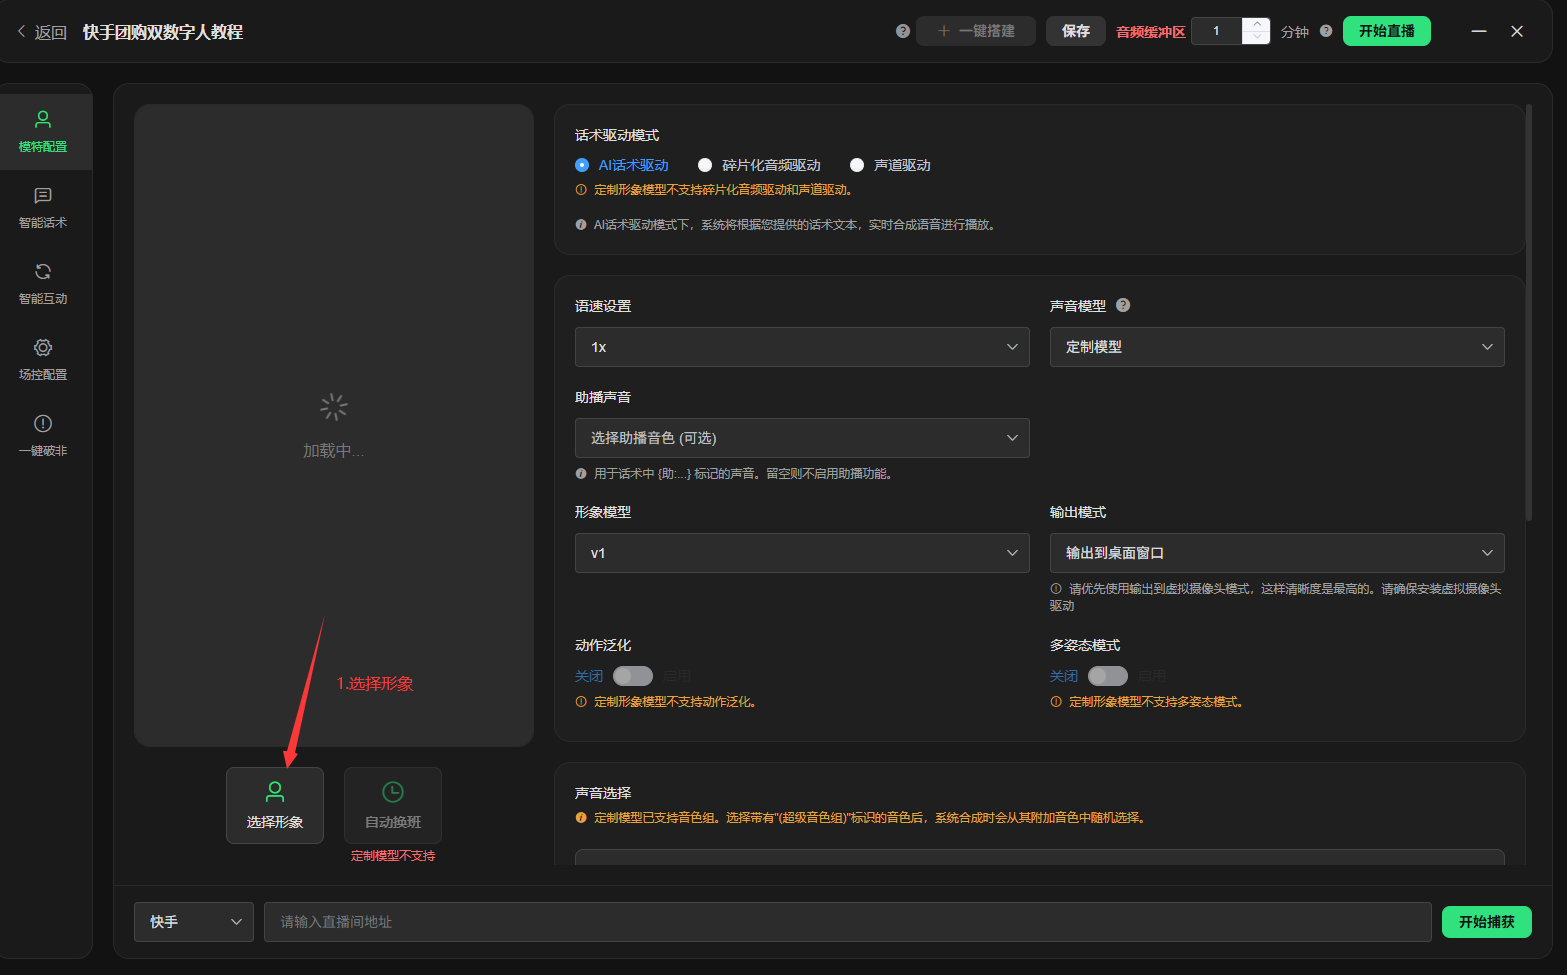
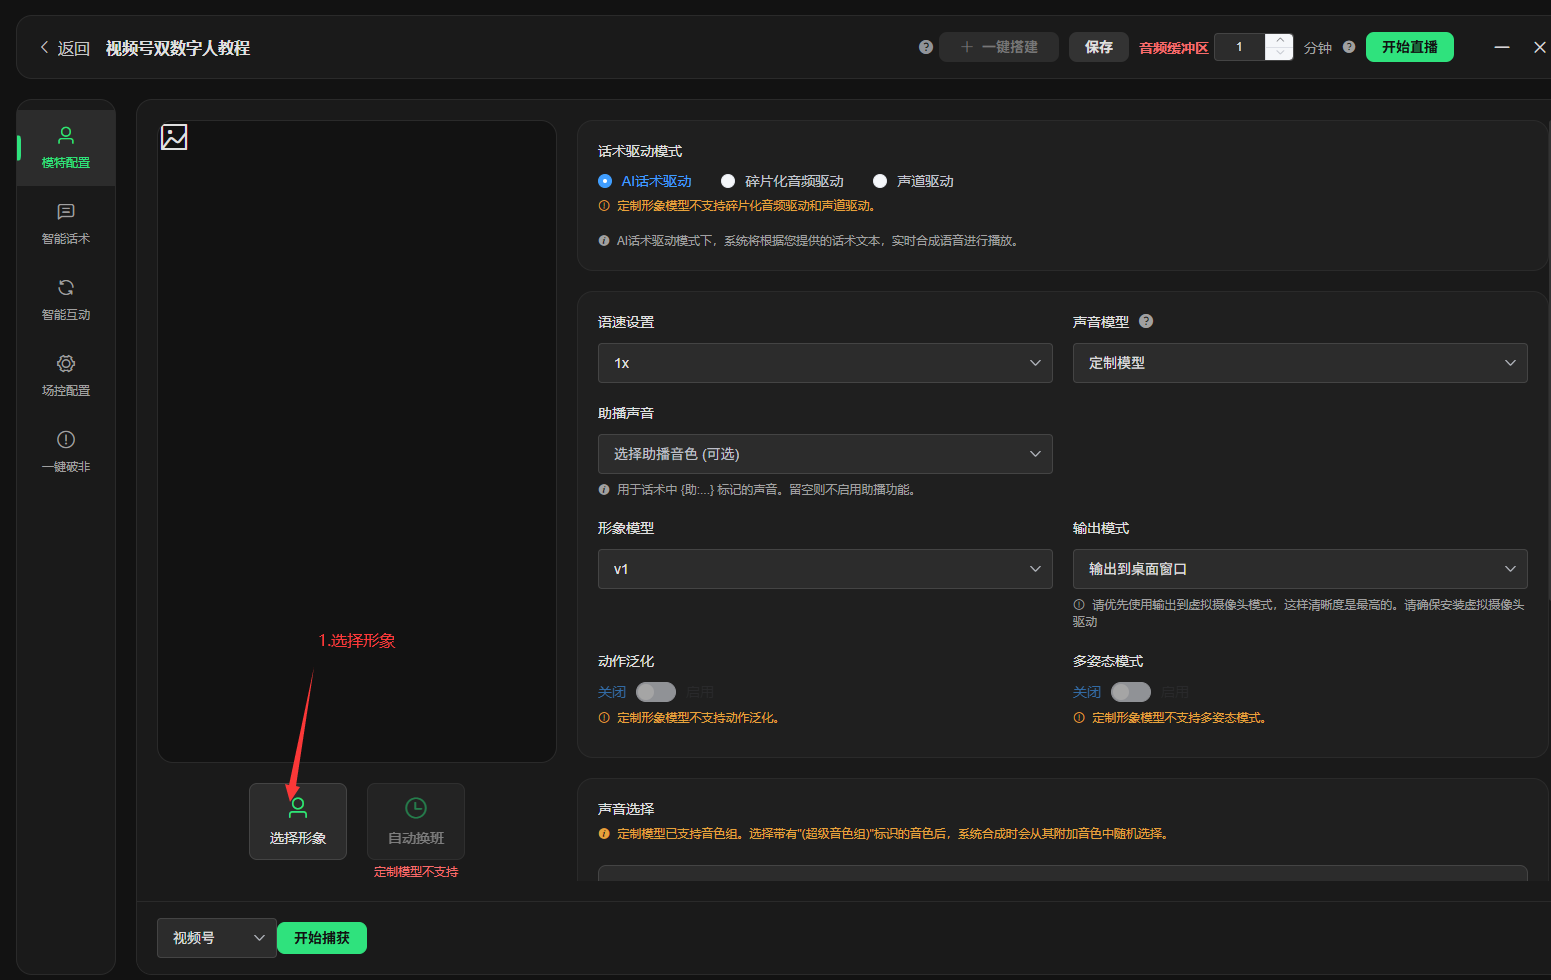
Add files via upload

diff --git a/教程.html b/教程.html
@@ -258,8 +258,8 @@
 </head>
 <body>
     <div class="container">
-        <h1>鸿志数科 双数字人直播教程</h1>
-        <p class="subtitle">详细步骤指南 - 从安装到直播全流程</p>
+        <h1>鸿志数科 </h1>
+        <p class="subtitle">双数字人直播详细步骤指南 - 从安装到直播全流程</p>
         
         <div class="section">
             <div class="section-title">第一步：安装软件与插件</div>
@@ -387,20 +387,32 @@
             <div class="content">
                 <strong>克隆声音：</strong>
             </div>
-            
+
             <div class="steps">
                 <div class="step"><span class="step-number">1</span>进入声音管理页面</div>
-                <div class="step"><span class="step-number">2</span>选择音频文件（选择需要克隆的音频文件）</div>
-                <div class="step"><span class="step-number">3</span>声音名称（命名克隆声音名字）</div>
-                <div class="step"><span class="step-number">4</span>克隆模式：标准克隆（按钮关）或 极速克隆（按钮打开）</div>
-                <div class="step"><span class="step-number">5</span>音色训练轮次（改成8）</div>
-                <div class="step"><span class="step-number">6</span>韵律训练轮次（改成100）</div>
-                <div class="step"><span class="step-number">7</span>点击开始克隆，耐心等待克隆完成</div>
+                <div class="step"><span class="step-number">2</span>点击克隆声音</div>
+            </div>
+
+            <div class="image-container">
+                <img src="pig/进入声音克隆.png" alt="进入声音克隆">
+                <div class="image-caption">进入声音克隆界面</div>
+            </div>
+            
+            <div class="content">
+                <strong>克隆声音设置：</strong>
+            </div>
+
+            <div class="steps">
+                <div class="step"><span class="step-number">1</span>选择音频文件（选择需要克隆的音频文件）</div>
+                <div class="step"><span class="step-number">2</span>声音名称（命名克隆声音名字）</div>
+                <div class="step"><span class="step-number">3</span>克隆模式：标准克隆（按钮关）或 极速克隆（按钮打开）</div>
+                <div class="step"><span class="step-number">4</span>训练批次 （改成8）音色训练轮次（改成100）韵律训练轮次（改成100）</div>
+                <div class="step"><span class="step-number">5</span>点击开始克隆，耐心等待克隆完成</div>
             </div>
             
             <div class="image-container">
-                <img src="pig/声音克隆.png" alt="声音克隆界面">
-                <div class="image-caption">声音克隆界面</div>
+                <img src="pig/声音克隆.png" alt="声音克隆">
+                <div class="image-caption">声音克隆</div>
             </div>
             
             <div class="note">
@@ -441,7 +453,7 @@
             </div>
             
             <div class="important">
-                <strong>示例：</strong>以下将以快手团购直播为例子展示双数字人直播间的手动搭建
+                <strong>示例：</strong>以下将以视屏号团购直播为例子展示双数字人直播间的手动搭建
             </div>
             
             <div class="image-container">
@@ -568,7 +580,7 @@
         <div class="section">
             <div class="section-title">第四步：开始直播</div>
             <div class="important">
-                <strong>示例：</strong>以下以快手平台为例演示两种直播方式
+                <strong>示例：</strong>以下以微信视屏号为例演示两种直播方式
             </div>
             
             <div class="content">
@@ -598,21 +610,26 @@
             </div>
             
             <div class="content">
-                <strong>打开快手直播伴侣：</strong>
+                <strong>打开电脑端的微信 找到视屏号并点击：</strong>
+            </div>
+            <div class="image-container">
+                <img src="pig/视屏号点击.png" alt="视频号点击">
+                <div class="image-caption">视频号设置步骤</div>
             </div>
             
             <div class="steps">
-                <div class="step"><span class="step-number">1</span>选择直播场景</div>
-                <div class="step"><span class="step-number">2</span>点击添加素材</div>
+                <div class="step"><span class="step-number">1</span>点击右上角的相机图标</div>
+                <div class="step"><span class="step-number">2</span>点击发起直播</div>
             </div>
             
             <div class="image-container">
-                <img src="pig/快手1-2.png" alt="快手直播伴侣设置1-2">
-                <div class="image-caption">快手直播伴侣设置步骤1-2</div>
+                <img src="pig/微信发起直播.png" alt="视频号发起直播">
+                <div class="image-caption">视频号设置步骤1-2</div>
             </div>
             
-            <div class="content">
-                3. 选择添加窗口，找到生成好的数字人窗口
+
+            <div class="steps">
+                <div class="step"><span class="step-number">3</span>选择添加窗口，找到生成好的数字人窗口</div>
             </div>
             
             <div class="image-container">
@@ -635,8 +652,8 @@
             
             <div class="steps">
                 <div class="step"><span class="step-number">2</span>点击标题模块上的保存与开始直播</div>
-                <div class="step"><span class="step-number">3</span>打开快手直播伴侣：选择直播场景 → 点击添加素材</div>
-                <div class="step"><span class="step-number">4</span>选择添加虚拟摄像头，选择c920</div>
+                <div class="step"><span class="step-number">3</span>打开视屏号直播伴侣： 点击添加虚拟摄像头</div>
+                <div class="step"><span class="step-number">4</span>选择c920</div>
             </div>
         </div>
         
@@ -645,7 +662,23 @@
             <div class="content">
                 弹幕捕获功能需要根据具体直播平台进行配置。一般来说，需要在直播软件中开启弹幕显示功能，并确保数字人直播软件能够接收到弹幕信息。
             </div>
-            
+
+            <div class="steps">
+                <div class="step"><span class="step-number">1</span>回到鸿志数科软件 左下角功能板块</div>
+                <div class="step"><span class="step-number">2</span>选择视屏号</div>
+                <div class="step"><span class="step-number">3</span>点击开始捕获</div>
+            </div>
+        </div>
+
+        <div class="image-container">
+                <img src="pig/捕获弹幕.png" alt="捕获弹幕">
+                <div class="image-caption">捕获弹幕</div>
+            </div>
+
+        <div class="content">
+                捕获窗口弹出后：登入视屏号关联好的微信号即可（切记不要关闭）
+            </div>
+
             <div class="note">
                 <strong>提示：</strong>不同直播平台的弹幕捕获设置方式可能不同，请参考对应平台的具体教程进行设置。
             </div>
@@ -665,7 +698,7 @@
             </div>
             
             <div class="content" style="text-align: center; margin-top: 30px; color: #7f8c8d; font-size: 14px;">
-                鸿志数科双数字人直播教程 © 2023<br>
+                鸿志数科双数字人直播教程 <br>
                 本教程会持续更新，请关注官方最新版本
             </div>
         </div>
